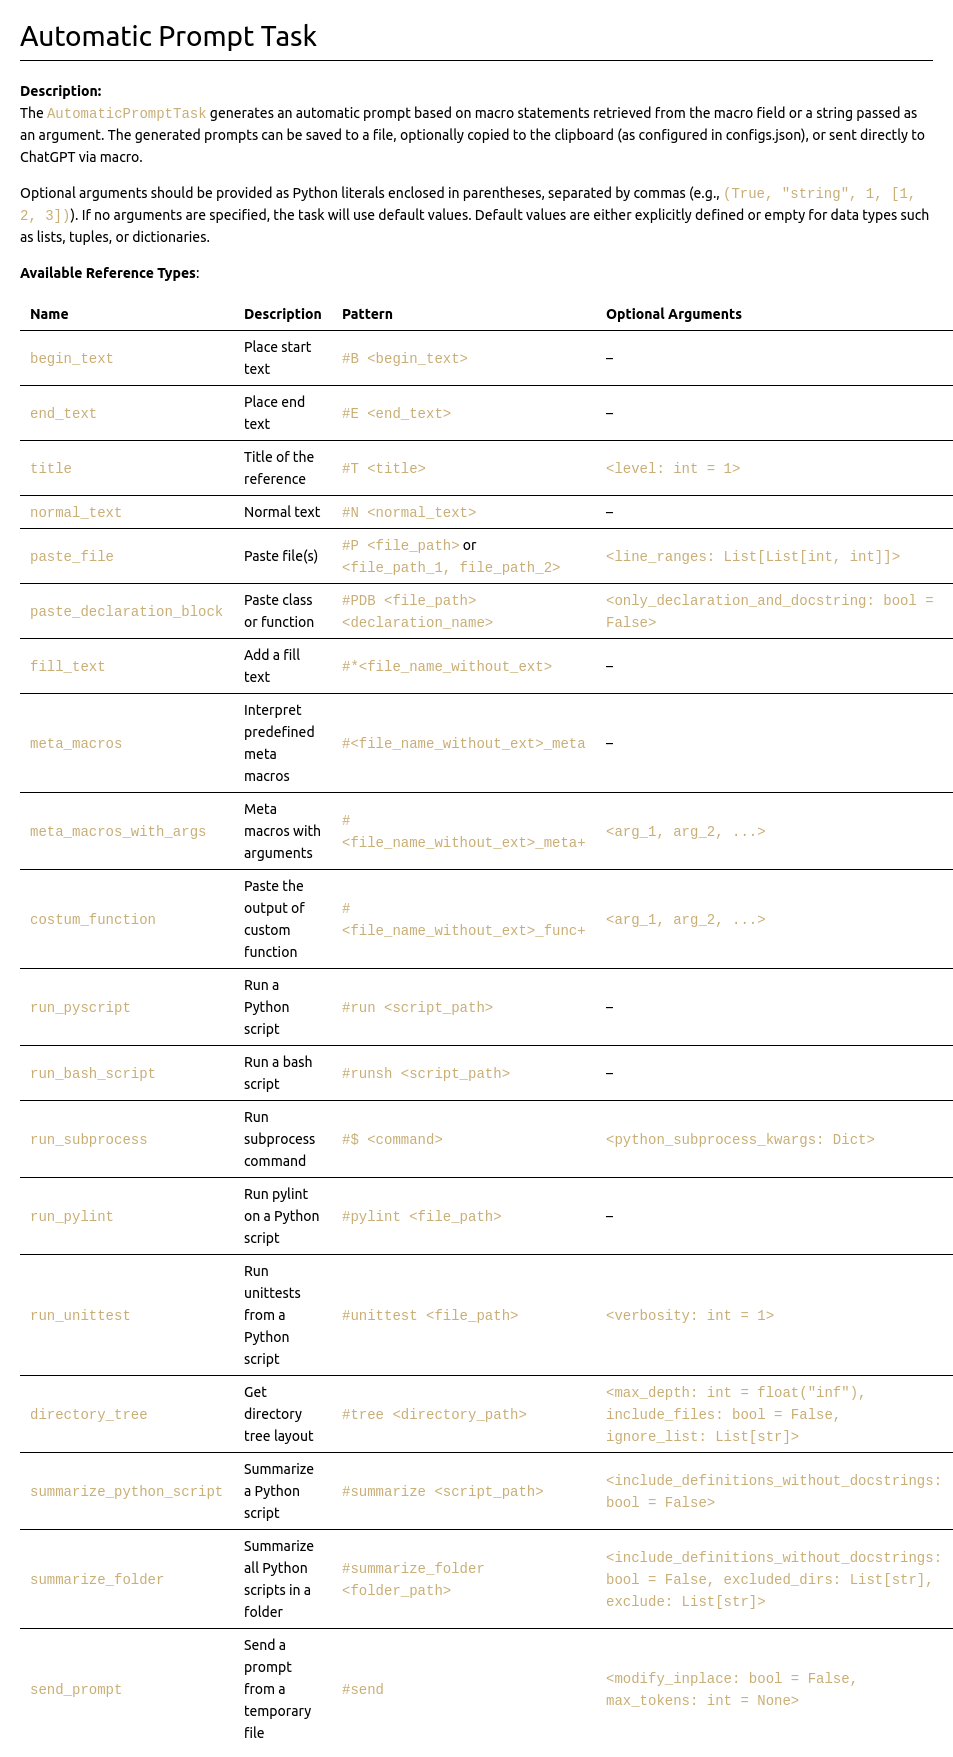
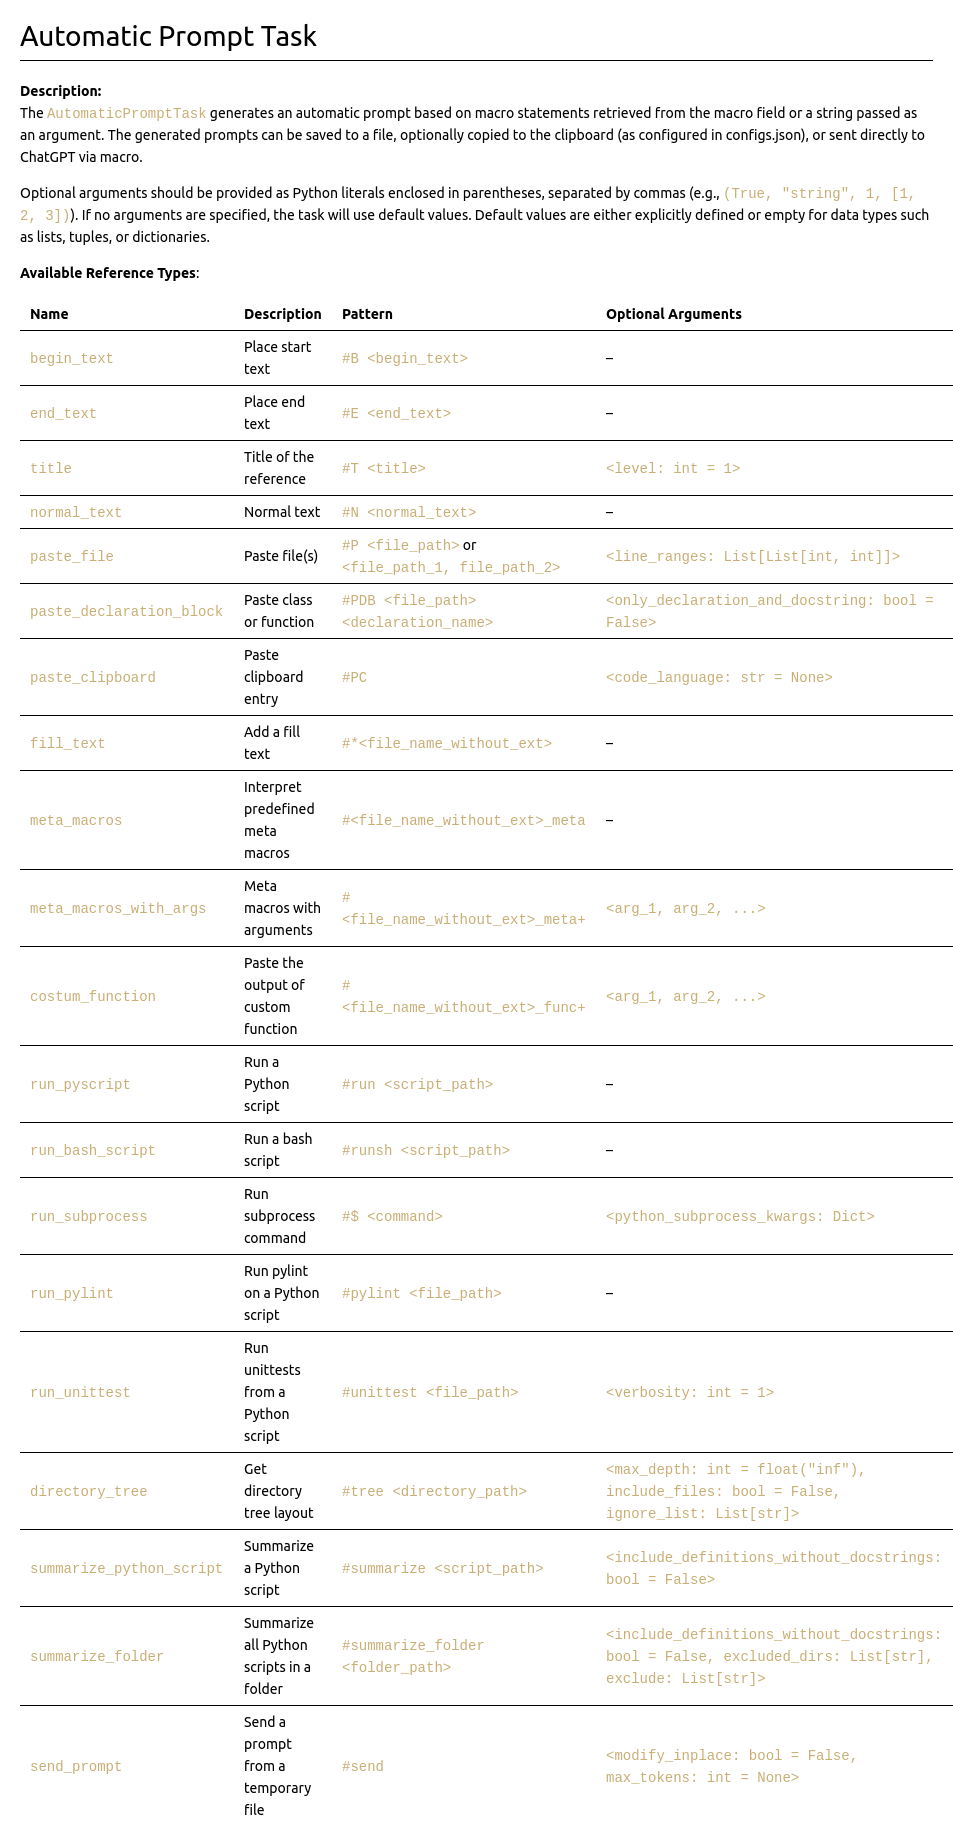
Add macro to paste from clipboard entry

diff --git a/tasks/tasks/automatic_prompt/automatic_prompt_task.py b/tasks/tasks/automatic_prompt/automatic_prompt_task.py
@@ -8,10 +8,11 @@ Available reference types:
 |--------------------------|-----------------------------------------|------------------------------------------------------|-----------------------------------------------------------------------------------------------|
 | begin_text               | Place start text                        | #B <begin_text>                                      | –                                                                                             |
 | end_text                 | Place end text                          | #E <end_text>                                        | –                                                                                             |
-| title                    | Title of the reference                  | #T <title>                                           | <level: int>                                                                                  |
+| title                    | Title of the reference                  | #T <title>                                           | <level: int = 1>                                                                              |
 | normal_text              | Normal text                             | #N <normal_text>                                     | –                                                                                             |
 | paste_file               | Paste file/s                            | #P <file_path> or <file_path_1, file_path_2>         | <line_ranges: List[List[int, int]]>                                                           |
-| paste_declaration_block  | Paste class or function                 | #P <file_path> <declaration_name>                    | <only_declaration_and_docstring: bool>                                                        |
+| paste_declaration_block  | Paste class or function                 | #PDB <file_path> <declaration_name>                  | <only_declaration_and_docstring: bool = False>                                                |
+| paste_clipboard          | Paste clipboard entry                   | #PC <file_path> <declaration_name>                   | <code_language: str = None>                                                                   |
 | fill_text                | Add a fill text                         | #<file_name_without_ext>                             | –                                                                                             |
 | meta_macros              | Interpret predefined meta macros        | #<file_name_without_ext>_meta                        | –                                                                                             |
 | meta_macros_with_args    | Meta macros with args                   | #<file_name_without_ext>_meta+                       | <arg_1, arg_2, ...>                                                                           |
@@ -20,10 +21,10 @@ Available reference types:
 | run_bash_script          | Run a bash script                       | #runsh <script_path>                                 | –                                                                                             |
 | run_command              | Run Command                             | #$ <command>                                         | <subprocess kwargs: Dict>                                                                     |
 | run_pylint               | Run pylint on a Python script           | #run_pylint <file_path>                              | –                                                                                             |
-| run_unittest             | Run unittest from a Python script       | #run_unittest <file_path>                            | <verbosity: int>                                                                              |
-| directory_tree           | Get directory tree                      | #tree <directory_path>                               | <max_depth: int, include_files: List[str], ignore_list: List[str]>                            |
-| summarize_python_script  | Summarize a Python script               | #summarize <script_path>                             | <include_definitions_with_docstring: bool>                                                    |
-| summarize_folder         | Summarize Python scripts in a folder    | #summarize_folder <folder_path>                      | <include_definitions_with_docstrings: bool, excluded_dirs: List[str], excluded_files: List[str]> |
+| run_unittest             | Run unittest from a Python script       | #run_unittest <file_path>                            | <verbosity: int = 1>                                                                          |
+| directory_tree           | Get directory tree                      | #tree <directory_path>                               | <max_depth: int = float("inf"), include_files: bool = False, ignore_list: List[str]>          |
+| summarize_python_script  | Summarize a Python script               | #summarize <script_path>                             | <include_definitions_with_docstring: boo = False>                                             |
+| summarize_folder         | Summarize Python scripts in a folder    | #summarize_folder <folder_path>                      | <include_definitions_with_docstrings: bool = False, excluded_dirs: List[str], excluded_files: List[str]> |
 | send_prompt              | Send a prompt from a temporary file     | #send                                                | <modify_inplace: bool = False, max_tokens: int = None>                                        |
 
 Usage Example:

diff --git a/tasks/tasks/automatic_prompt/automatic_prompt_interpreter.py b/tasks/tasks/automatic_prompt/automatic_prompt_interpreter.py
@@ -1,6 +1,7 @@
 import os
 import subprocess
 
+import clipboard
 from tasks.configs.constants import AUTOMATIC_PROMPT_MACROS as MACROS
 from tasks.tasks.automatic_prompt.line_validation import (
     line_validation_for_begin_text,
@@ -9,6 +10,7 @@ from tasks.tasks.automatic_prompt.line_validation import (
     line_validation_for_normal_text,
     line_validation_for_paste_file,
     line_validation_for_paste_declaration_block,
+    line_validation_for_paste_clipboard,
     line_validation_for_fill_text,
     line_validation_for_meta_macros,
     line_validation_for_meta_macros_with_args,
@@ -147,6 +149,21 @@ class AutomaticPromptInterpreter(MacroInterpreter):
                 "type": MACROS.PASTE_DECLARATION_BLOCK,
                 "text": declaration_block,
             }
+            return macro_data
+        return None
+
+    def validate_paste_clipboard_macro(self, line):
+        if result := line_validation_for_paste_clipboard(line):
+            _, code_language = result
+            content = clipboard.paste()
+            if not content:
+                raise ValueError(
+                    "Clipboard is empty."
+                    
+                )
+            if code_language:
+                content = render_to_markdown(content, format=code_language)
+            macro_data = {"type": MACROS.PASTE_CLIPBOARD, "text": content}
             return macro_data
         return None
 

diff --git a/tasks/tasks/automatic_prompt/line_validation.py b/tasks/tasks/automatic_prompt/line_validation.py
@@ -30,6 +30,11 @@ paste_declaration_block_pattern = (
     rf"{paste_declaration_block_tag}\s+({file_pattern})\s+({declaration_pattern})"
 )
 
+# PASTE_CLIPBOARD_PATTERN
+paste_clipboard_tag = TAGS.PASTE_CLIPBOARD.value
+paste_clipboard_pattern = rf"^{paste_clipboard_tag}"
+PASTE_CLIPBOARD_PATTERN = re.compile(paste_clipboard_pattern)
+
 # FILL_TEXT_PATTERN
 fill_text_tag = TAGS.FILL_TEXT.value
 fill_text_pattern = rf"^{fill_text_tag}\s*(.*)"
@@ -183,6 +188,23 @@ def line_validation_for_paste_declaration_block(line):
                 "for paste declaration block only declaration and docstring",
             )
         return file_name, declaration_name, only_declaration_and_docstring
+    return None
+
+
+def line_validation_for_paste_clipboard(line):
+    """
+    Validate if the line is a paste clipboard macro.
+    """
+    if PASTE_CLIPBOARD_PATTERN.match(line):
+        code_language = None
+        if arguments := retrieve_arguments_in_round_brackets(line, 1):
+            code_language = arguments[0]
+            check_type(
+                code_language,
+                str,
+                "for paste clipboard format",
+            )
+        return True, code_language
     return None
 
 

diff --git a/tasks/configs/constants.py b/tasks/configs/constants.py
@@ -24,6 +24,7 @@ class AUTOMATIC_PROMPT_MACROS(Enum):
     NORMAL_TEXT = "normal_text"
     PASTE_FILE = "paste_file"
     PASTE_DECLARATION_BLOCK = "paste_declaration_block"
+    PASTE_CLIPBOARD = "paste_clipboard"
     FILL_TEXT = "fill_text"
     COSTUM_FUNCTION = "costum_function"
     RUN_PYSCRIPT = "run_pyscript"
@@ -44,6 +45,7 @@ class AUTOMATIC_PROMPT_TAGS(Enum):
     NORMAL_TEXT = MACRO_TAG + "N "
     PASTE_FILE = MACRO_TAG + "P "
     PASTE_DECLARATION_BLOCK = MACRO_TAG + "PDB"
+    PASTE_CLIPBOARD = MACRO_TAG + "PC"
     META_MACROS_START = MACRO_TAG
     META_MACROS_END = "_meta"
     META_MACROS_WITH_ARGS_START = MACRO_TAG

diff --git a/tasks/management/support_files/CHEATSHEET.md b/tasks/management/support_files/CHEATSHEET.md
@@ -64,6 +64,7 @@ Optional arguments should be provided as Python literals enclosed in parentheses
 | `normal_text`            | Normal text                                                                                       | `#N <normal_text>`                                       | –                                                                                                     |
 | `paste_file`             | Paste file(s)                                                                                     | `#P <file_path>` or `<file_path_1, file_path_2>`         | `<line_ranges: List[List[int, int]]>`                                                                 |
 | `paste_declaration_block`| Paste class or function                                                                           | `#PDB <file_path> <declaration_name>`                    | `<only_declaration_and_docstring: bool = False>`                                                      |
+| `paste_clipboard`        | Paste clipboard entry                                                                             | `#PC`                                                    | `<code_language: str = None>`                                                                        |
 | `fill_text`              | Add a fill text ([see more](./costumizations/fill_texts/fill_text_template/template_4.txt))       | `#*<file_name_without_ext>`                              | –                                                                                                     |
 | `meta_macros`            | Interpret predefined meta macros ([see more](./costumizations/meta_macros/template_1.py))         | `#<file_name_without_ext>_meta`                          | –                                                                                                     |
 | `meta_macros_with_args`  | Meta macros with arguments ([see more](./costumizations/meta_macros_with_args/template_2.py))     | `#<file_name_without_ext>_meta+`                         | `<arg_1, arg_2, ...>`                                                                                 |

diff --git a/README.md b/README.md
@@ -121,6 +121,7 @@ The `AutomaticPromptTask` generates an automatic prompt based on macro statement
 | `normal_text`            | Normal text                                                                                      | `#N <normal_text>`                                      | –                                                                                                    |
 | `paste_file`             | Paste file(s)                                                                                   | `#P <file_path>` or `<file_path_1, file_path_2>`        | `<line_ranges: List[List[int, int]]>`                                                                |
 | `paste_declaration_block`| Paste class or function                                                                          | `#PDB <file_path> <declaration_name>`                   | `<only_declaration_and_docstring: bool = False>`                                                     |
+| `paste_clipboard`        | Paste clipboard entry                                                                            | `#PC`                                                   | `<code_language: str = None>`                                                                        |
 | `fill_text`              | Add a fill text                                                                                 | `#*<file_name_without_ext>`                             | –                                                                                                    |
 | `meta_macros`            | Interpret predefined meta macros                                                                 | `#<file_name_without_ext>_meta`                         | –                                                                                                    |
 | `meta_macros_with_args`  | Meta macros with arguments                                                                       | `#<file_name_without_ext>_meta+`                        | `<arg_1, arg_2, ...>`                                                                                |
